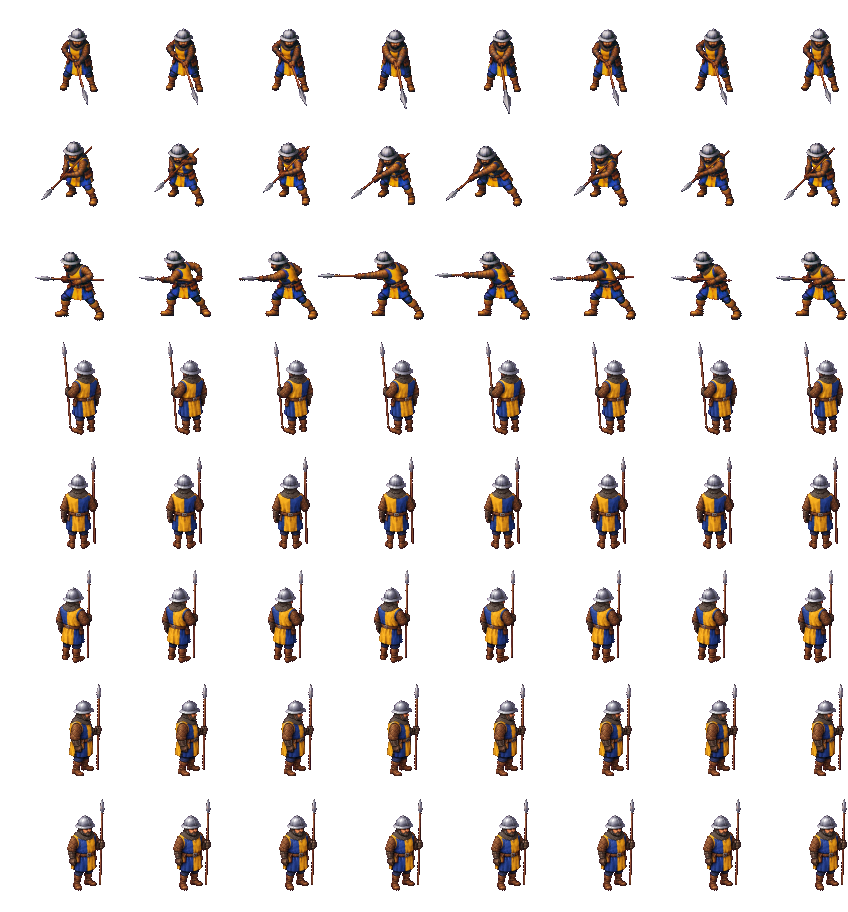
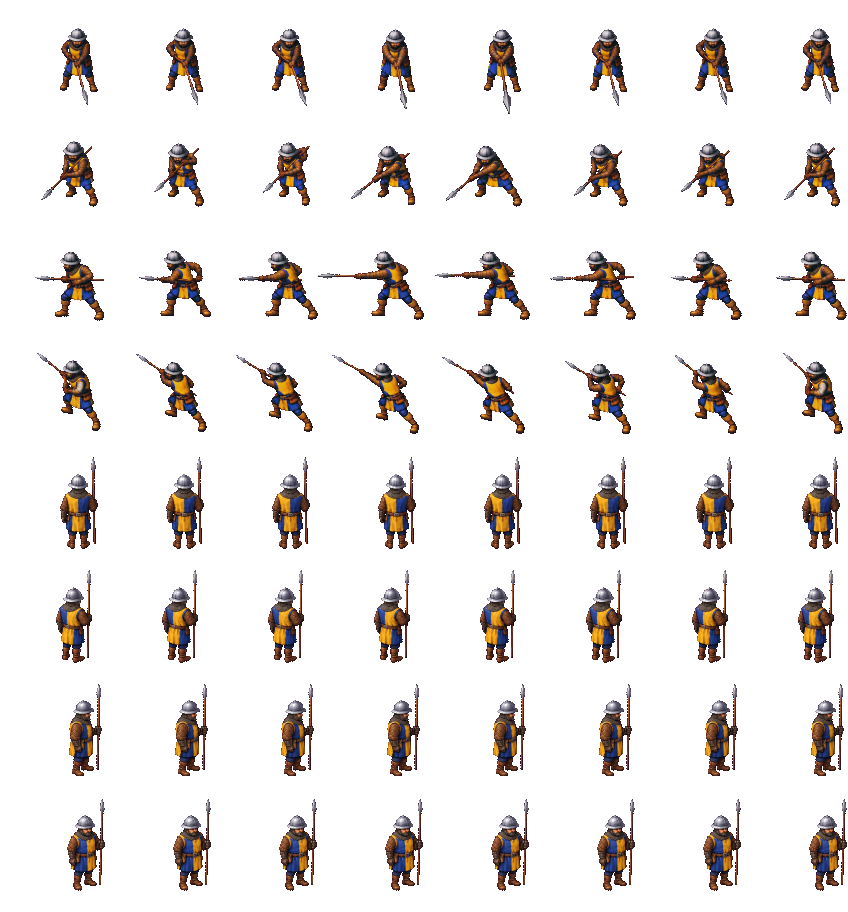
Aanvallen NW van de speerman
Vel 13 was meteen goed: van achteren, de speer op één lijn naar linksboven. Op maat naar de helm van lopen NW, en op
zijn voeten. Staan en lopen blijven pixel voor pixel hetzelfde.

diff --git a/ontwerp/beelden-van-de-generator.md b/ontwerp/beelden-van-de-generator.md
@@ -307,7 +307,9 @@ generator van 1,7 MB; op spelmaat is het verschil ruis) en lopen in het spel. Wa
 - **Vel 12, aanvallen W** (21 okt): goed (horizontaal, op één lijn, in beeld 4 ver uit), maar de vakken ongelijk breed
   (beeld 2 en 3 op elkaar, tot 44 pixels scheef), zodat de man op het midden van zijn vak heen en weer sprong. Een
   aanval staat daarom op zijn voeten (`anker: 'voeten'`): het eerste beeld met zijn lijf op het anker, zoals wie loopt,
-  en de andere zoals de voeten schuiven (bij W nu 5 pixels heen en weer, eerst 28). Bij N (vel 14), van achteren, speelt hetzelfde: dan de punt
+  en de andere zoals de voeten schuiven (bij W nu 5 pixels heen en weer, eerst 28).
+- **Vel 13, aanvallen NW** (21 okt): meteen goed, van achteren, de speer op één lijn naar linksboven. In beeld 1 en 8
+  is zijn rechtermouw licht, bijna wit (zo getekend); op spelmaat een lichte vlek op de arm. Bij N (vel 14), van achteren, speelt hetzelfde: dan de punt
   omhoog, van de kijker af.
 
 ## De inventaris

diff --git a/ontwerp/werklijst.md b/ontwerp/werklijst.md
@@ -32,7 +32,7 @@ de pijplijn van vraag 180 (Q, f; niet in de cloud). **Bezig in sessie `lokaal-da
 **nieuwe weg** (Marcel, 21 okt: "Ok, dan zullen we moeten inventariseren welke gebouwen en poppetjes we nodig hebben. Dan
 kunnen we de andere generator deze 1 voor 1 laten maken. Jij moet dan zorgen dat ze passend worden in het spel"): de
 generator van zijn plaat maakt de bron, wij maken het passend; eerst de inventaris (`beelden-van-de-generator.md`). De
-speerman staat en loopt in het spel in acht richtingen (21 okt, de masterprompt); aanvallen Z, ZW en W staan erin; **wacht op Marcel**: vel 13 tot 25 (in
+speerman staat en loopt in het spel in acht richtingen (21 okt, de masterprompt); aanvallen Z, ZW, W en NW staan erin; **wacht op Marcel**: vel 14 tot 25 (in
 het nieuwe gesprek, `beelden-van-de-generator.md`), en eventueel 3 en 4 opnieuw (de punt naar achteren).
 
 **Marcels acht punten van 20 okt** (R, vraag 182 tot 189: egaliseren met de schop, de maat van de huizen, dragers, een
